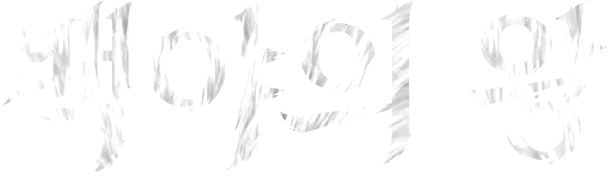
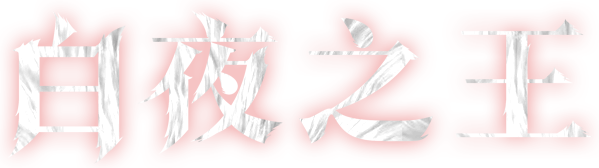
前四頁調整文字完成

diff --git a/css/page.css b/css/page.css
@@ -70,7 +70,8 @@
 }
 
 .nav_side>div ol li.active button {
-    color: #d3947f;
+    color: #e7ac9c;
+    font-weight: bold;
     opacity: 1;
 }
 
@@ -81,7 +82,8 @@
 
 .nav_side>div ol li button {
     box-sizing: border-box;
-    color: #dbb7b0;
+    color: #c3aea9;
+    font-weight: 400;
     font-family: "Noto Serif TC", serif;
     font-size: 18px;
     height: 18px;
@@ -395,6 +397,7 @@ section.area .visual video {
     margin-top: 10px;
     opacity: .4;
     text-align: center;
+    font-weight: 400;
 }
 
 .bosspage_tab .item.active .text {
@@ -490,6 +493,7 @@ section.area .visual video {
 .section_hero .content .subtitle {
     font-family: "Noto Serif TC", serif;
     font-size: 41px;
+    font-weight: 600;
 }
 
 .section_hero .content>:not(.layout-escape) {
@@ -534,10 +538,10 @@ section.area .visual video {
 }
 
 .section_hero .content .title .title_text {
-    /* background-image: url(../img/page1/p1_text_hero.png);
+    background-image: url(../img/page1/p1_text_hero.png);
     background-position: 50% 50%;
     background-repeat: no-repeat;
-    background-size: contain; */
+    background-size: contain;
     color: #dbb7b0;
     filter: drop-shadow(0 0 10px rgba(224, 61, 61, .8));
     height: 177px;
@@ -555,10 +559,10 @@ section.area .visual video {
 }
 
 .section_hero .content .date>span {
-    /* background-image: url(../img/page1/p1_text_period.png);
+    background-image: url(../img/page1/p1_text_period.png);
     background-position: 50% 50%;
     background-repeat: no-repeat;
-    background-size: contain; */
+    background-size: contain;
     color: #dbb7b0;
     display: inline-block;
     flex: 1;
@@ -782,12 +786,13 @@ section.area .visual video {
     font-size: 32px;
     margin-top: 20px;
     text-align: center;
+    font-weight: 600;
 }
 
 .section_info .content .header .title strong {
     color: #d3947f;
     font-size: 60px;
-    font-weight: 400;
+    font-weight: 700;
 }
 
 .section_info .content .ornate {
@@ -801,15 +806,12 @@ section.area .visual video {
 }
 
 .section_info .content .text {
-    /* background-image: url(../img/page2/p2_text.png);
-    background-position: 0;
-    background-repeat: no-repeat;
-    background-size: contain; */
-    color: #cfc2c0 !important;
+    font-family: "Noto Serif TC", serif;
+    color: #958b89 !important;
     font-size: 16px;
     height: 331px;
     text-align: center;
-    /* white-space: nowrap; */
+    font-weight: 400;
     width: 513px;
 }
 
@@ -903,7 +905,7 @@ section.area .visual video {
 
 .section_spec .content .sub_content .header {
     align-items: center;
-    color: #cfc2c0;
+    color: #c3b7b5;
     display: flex;
     flex-direction: column;
     font-family: "Noto Serif TC", serif;
@@ -913,17 +915,21 @@ section.area .visual video {
     font-size: 60px;
     letter-spacing: -2px;
     white-space: nowrap;
+    font-weight: 700;
+    font-family: "Noto Serif TC", serif;
 }
 
 .section_spec .content .sub_content .header strong {
     color: #d3947f;
-    font-weight: 400;
 }
 
 .section_spec .content .sub_content .header .weapon {
     align-items: center;
     display: inline-flex;
     font-size: 30px;
+    font-family: "Noto Serif TC", serif;
+    font-weight: 600;
+    color: #c3b7b5;
 }
 
 .section_spec .content .sub_content .header .weapon i {
@@ -956,7 +962,7 @@ section.area .visual video {
     background-position: 50% 50%;
     background-repeat: no-repeat;
     background-size: contain; */
-    color: #cfc2c0 !important;
+    color: #958b89 !important;
     font-size: 16px;
     height: 102px;
     text-align: center;
@@ -1115,6 +1121,7 @@ section.area .visual video {
     margin-bottom: 40px;
     margin-top: 50px;
     text-align: center;
+    font-weight: 700;
 }
 
 .section_spec .content .benefit .items {
@@ -1394,7 +1401,6 @@ section.area .visual video {
 
 .section_map .content .map .map_plate .point .point_lens .point_lens_text {
     box-sizing: border-box;
-    color: #0000;
     color: #e7c385;
     display: block;
     font-family: "Noto Serif TC", serif;
@@ -1402,6 +1408,7 @@ section.area .visual video {
     margin: 16px 0;
     position: relative;
     white-space: nowrap;
+    font-weight: 700;
 }
 
 .section_map .content .map .map_plate .point .point_lens .point_lens_text:before {
@@ -1450,12 +1457,13 @@ section.area .visual video {
     font-size: 32px;
     margin-top: 94px;
     text-align: center;
+    font-weight: 600;
 }
 
 .section_map .content .content_wrap .content_box .title strong {
     color: #9e4b2a;
     font-size: 60px;
-    font-weight: 400;
+    font-weight: 700;
 }
 
 .section_map .content .content_wrap .content_box .ornate {
@@ -1475,11 +1483,11 @@ section.area .visual video {
     background-position: 50% 50%;
     background-repeat: no-repeat;
     background-size: contain; */
-    /* color: #0000; */
+    color: #474444;
     font-size: 16px;
     height: 571px;
     text-align: center;
-    /* white-space: nowrap; */
+    font-weight: 400;
     width: 480px;
 }
 
@@ -1709,9 +1717,9 @@ section.section_elf .content {
     display: inline-block;
     filter: drop-shadow(0 6px 3px rgba(0, 0, 0, .2));
     height: auto;
-    left: 46%;
+    left: 40%;
     position: absolute;
-    top: -13%;
+    top: -20%;
     width: 12.23%;
     z-index: 3;
 }
@@ -3051,7 +3059,8 @@ section.section_elf .content {
         padding-right: 16px;
     } */
 
-    .map {
+    .section_story .map,
+    .section_place .map {
         height: 100% !important;
     }
 
@@ -3288,6 +3297,7 @@ section.section_elf .content {
     .section_info .content .text {
         max-width: 380px;
         width: 100%;
+        font-size: 18px;
     }
 
     .section_info .content .text:before {

diff --git a/index.html b/index.html
@@ -507,10 +507,10 @@
                       <span>狼 圖騰獸的</span>&nbsp;<strong>復活</strong>
                     </p>
                     <h2 class="title">
-                      <span class="title_text">白夜之王</span>
+                      <span class="title_text"></span>
                     </h2>
                     <div class="date">
-                      <span>2024年02月26日 (三) UPDATE</span>
+                      <span></span>
                       <div class="ornate">
                         <span></span>
                         <span></span>
